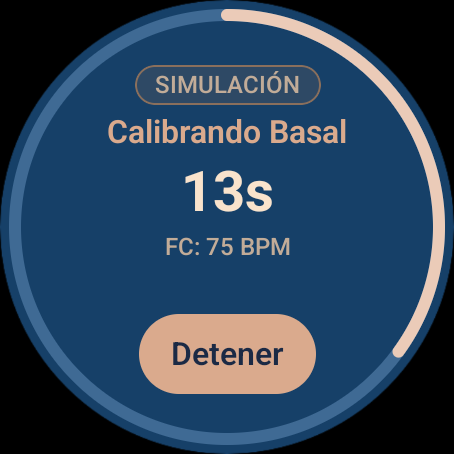
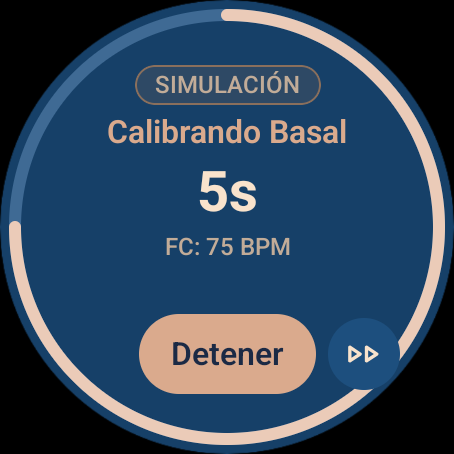
docs(readme): add nap fast-forward, rest confirmed, alarm and completed summary screenshots

Changed region(s): [[0.0, 0.4934, 0.8943, 0.9868], [0.4009, 0.37, 0.6167, 0.4934]]

diff --git a/README.md b/README.md
@@ -107,20 +107,31 @@ y muestra el aviso de llegada; luego aparece un resumen con un comentario genera
 
 Primero calibra el pulso en reposo durante 20 s. Luego monitorea el estado de reposo (despierto, reposo
 ligero o profundo) con su puntaje y frecuencia cardíaca. Con *Siesta con Destino* también se muestra la
-distancia a la parada. Si estás en reposo profundo cerca del destino, el reloj lanza una alerta crítica
-que hay que descartar con un toque.
+distancia a la parada. Al confirmarse el reposo profundo empieza una cuenta regresiva de 15 minutos y,
+al terminar, suena la alarma, que hay que descartar con un toque. Si estás en reposo profundo cerca del
+destino, el reloj lanza una alerta crítica de llegada.
+
+En el Modo Simulación aparece el botón ▷▷ junto a *Detener*: baja el pulso simulado para llegar al
+reposo profundo en segundos.
 
 <table>
   <tr>
-    <td align="center"><img src="docs/screenshots/15_nap_calibrating.png" width="200"><br><sub>Calibración del pulso basal</sub></td>
+    <td align="center"><img src="docs/screenshots/15_nap_calibrating.png" width="200"><br><sub>Calibración (con ▷▷ en simulación)</sub></td>
     <td align="center"><img src="docs/screenshots/16b_nap_evaluating.png" width="200"><br><sub>Primera evaluación en curso</sub></td>
     <td align="center"><img src="docs/screenshots/16_nap_monitoring.png" width="200"><br><sub>Monitoreo del reposo</sub></td>
-    <td align="center"><img src="docs/screenshots/18_nap_with_destination.png" width="200"><br><sub>Siesta con destino</sub></td>
+    <td align="center"><img src="docs/screenshots/24_nap_rest_confirmed.png" width="200"><br><sub>Reposo confirmado: cuenta de 15 min</sub></td>
   </tr>
   <tr>
+    <td align="center"><img src="docs/screenshots/24b_nap_soft_alert.png" width="200"><br><sub>Aviso suave al confirmar</sub></td>
+    <td align="center"><img src="docs/screenshots/25_nap_alarm.png" width="200"><br><sub>Alarma para despertar</sub></td>
+    <td align="center"><img src="docs/screenshots/26_summary_nap_completed.png" width="200"><br><sub>Siesta completada con IA</sub></td>
+    <td align="center"><img src="docs/screenshots/17_summary_nap.png" width="200"><br><sub>Siesta cancelada con IA</sub></td>
+  </tr>
+  <tr>
+    <td align="center"><img src="docs/screenshots/18_nap_with_destination.png" width="200"><br><sub>Siesta con destino</sub></td>
     <td align="center"><img src="docs/screenshots/13_nap_proximity_alert_urgent.png" width="200"><br><sub>Alerta crítica de llegada</sub></td>
-    <td align="center"><img src="docs/screenshots/17_summary_nap.png" width="200"><br><sub>Resumen de la siesta con IA</sub></td>
     <td align="center"><img src="docs/screenshots/21_ambient.png" width="200"><br><sub>Modo ambiente (bajo consumo)</sub></td>
+    <td></td>
   </tr>
 </table>
 
